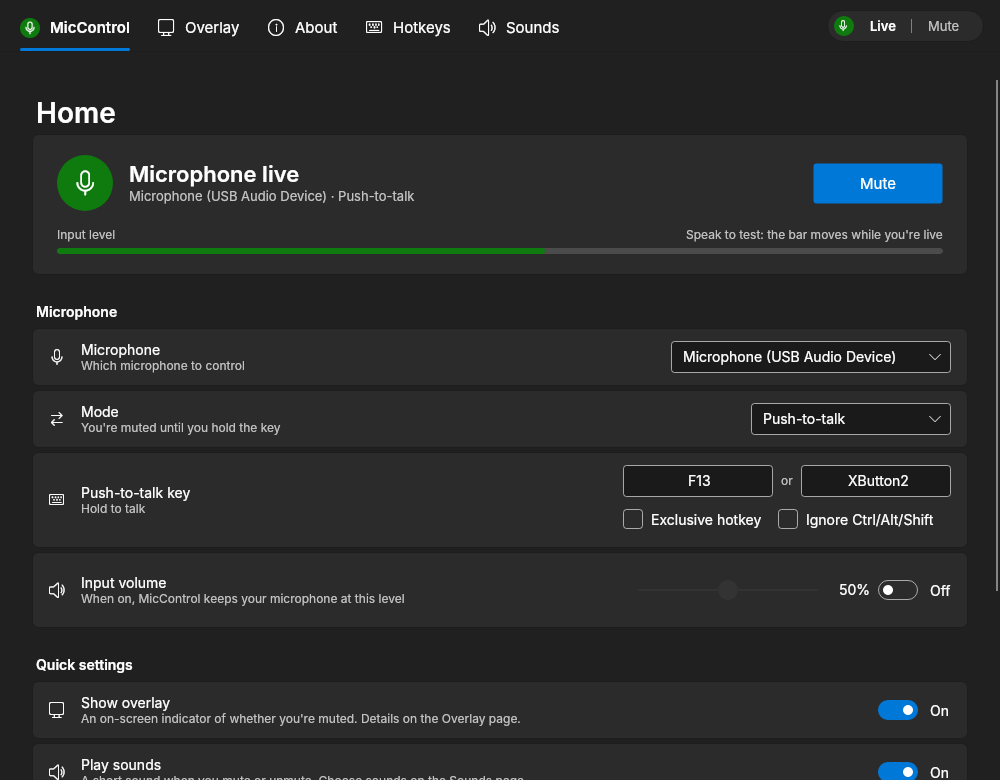
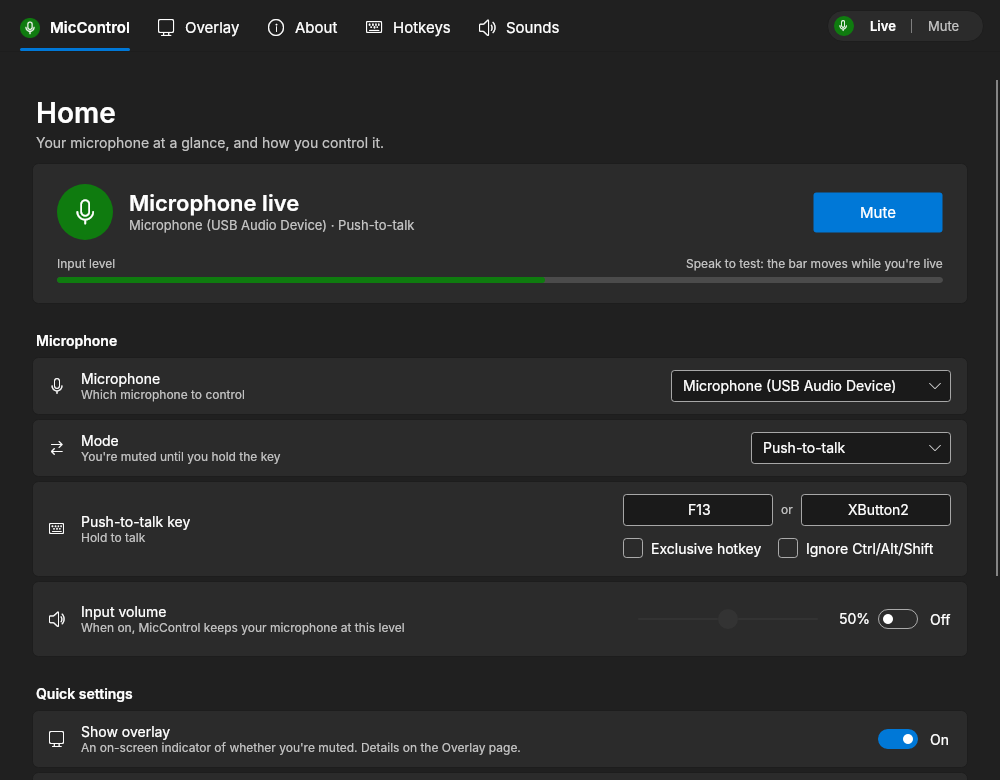
Consistent page tops; Theme becomes a segmented control
- Every page has a title and a one-line subtitle (Home and About were missing theirs)
- Home's status card and About's app card share one style: padding, 56 px icon, title and detail sizes, button size; About's icon follows the live/muted state
- Theme is a System | Light | Dark segmented control instead of a dropdown

diff --git a/Sources/MicControl.UI/ViewModels/MainViewModel.cs b/Sources/MicControl.UI/ViewModels/MainViewModel.cs
@@ -407,7 +407,37 @@ public sealed partial class MainViewModel : ObservableObject, IDisposable
             if (SetAndSave(Settings.Window.Theme, value, v => Settings.Window.Theme = v))
             {
                 App.ApplyTheme(value);
+                OnPropertyChanged(nameof(IsSystemTheme));
+                OnPropertyChanged(nameof(IsLightTheme));
+                OnPropertyChanged(nameof(IsDarkTheme));
             }
+        }
+    }
+
+    // Home's segmented Theme control: one of these is on; choosing one sets Theme (unchecking is ignored).
+    public bool IsSystemTheme
+    {
+        get => Theme == AppTheme.System;
+        set => SelectTheme(value, AppTheme.System);
+    }
+
+    public bool IsLightTheme
+    {
+        get => Theme == AppTheme.Light;
+        set => SelectTheme(value, AppTheme.Light);
+    }
+
+    public bool IsDarkTheme
+    {
+        get => Theme == AppTheme.Dark;
+        set => SelectTheme(value, AppTheme.Dark);
+    }
+
+    private void SelectTheme(bool selected, AppTheme theme)
+    {
+        if (selected)
+        {
+            Theme = theme;
         }
     }
 

diff --git a/Sources/MicControl.Tests/Ui/MainViewModelTests.cs b/Sources/MicControl.Tests/Ui/MainViewModelTests.cs
@@ -416,4 +416,22 @@ public sealed class MainViewModelTests
         vm.OverlayEnabled = false;
         Assert.Equal(0, vm.OverlayVisibilityStep);
     }
+
+    [AvaloniaFact]
+    public void ThemeSegments_PickOneTheme_AndIgnoreUnchecking()
+    {
+        using var harness = new TestHarness();
+        var vm = harness.ViewModel;
+        Assert.True(vm.IsSystemTheme);
+
+        vm.IsDarkTheme = true;
+        Assert.Equal(AppTheme.Dark, vm.Settings.Window.Theme);
+        Assert.Equal((false, false, true), (vm.IsSystemTheme, vm.IsLightTheme, vm.IsDarkTheme));
+
+        vm.IsSystemTheme = false; // a radio button being unchecked as another one is picked changes nothing
+        Assert.Equal(AppTheme.Dark, vm.Settings.Window.Theme);
+
+        vm.IsSystemTheme = true;
+        Assert.Equal(AppTheme.System, vm.Settings.Window.Theme);
+    }
 }

diff --git a/CLAUDE.md b/CLAUDE.md
@@ -65,6 +65,8 @@ System-wide microphone mute/unmute with hotkeys, an always-on-top overlay, sound
 - About → Advanced (always shown, between Updates and System: settings first, then the read-only details) holds the optional features, both off by default: **Custom hotkeys** (`customHotkeysEnabled`) adds the **Hotkeys** page and **Custom sounds** (`notifications.customSoundsEnabled`) adds the **Sounds** page. A switch is named "Custom X" and its page plainly "X"; keep that pattern. Their tabs come after About, in the order of the switches (Home · Overlay · About · Hotkeys · Sounds), and only show while the switch is on (`NavItems` is filtered from `AllNavItems`; a hidden page navigates Home). Off pauses custom hotkeys and plays the built-in cues at full volume on the default device (`NotificationSettings.Played*`); the user's rows and choices are kept for when it's turned back on. Basic settings (Play sounds, overlay, etc.) stay on Home.
 - Custom hotkeys are a dynamic list of key → action rows; the action list hides whatever the main key already does in the current mode.
 - Overlay is a translucent Discord inspired badge, positioned by corner presets or "Edit position" (drag); click-through otherwise. "Show overlay" is a four-stop slider, Never → When muted → When live → Always (`OverlayVisibilityStep`), not a dropdown.
+- Pages share one top: title, a one-line subtitle (`pageSubtitle`, on every page), then on Home and About the same card (`Border.hero`: 56 px icon, `heroTitle`, `heroDetail`, `heroAction` button). About's icon follows the live/muted state like the rest of the app.
+- Theme is a segmented control (`Border.segmented` + `RadioButton.segment`: System | Light | Dark, bound to `IsSystemTheme`/`IsLightTheme`/`IsDarkTheme`), not a dropdown or slider: the three are peers with no order, unlike Show overlay's scale.
 - The once-per-session tray notice (`TrayHintWindow`) says only: right-click the tray icon for quick controls or to exit; click or double-click it to get back to the full window. No mention of hotkeys.
 - The level meter and speaking indicator open the mic (OS "in use" indicator), so the meter only runs while Home/Setup is visible and the speaking indicator is opt-in.
 - App icon: the Home page's status badge, a green (`#0F7B0F`, live) or red (`#C42B1C`, muted, with a slash) circle with a white microphone outline; tray sizes (32 px and below) use a solid capsule so they stay readable. Drawn from simple shapes by `tools/GenerateAppIcons.cs` (`dotnet run tools/GenerateAppIcons.cs` from the repo root; pass a folder to also write a preview sheet), never a font glyph, so it's ours to ship. It writes `MicControl.UI/Assets/microphoneEnabled|Disabled.ico` (16-256 px: window, tray, and the live one is the exe's icon) and `.png` (256 px: sidebar). Change it by editing the generator, never the images. The window and tray use the `.ico` (`MainViewModel.CurrentWindowIcon`) unless the user picked their own overlay icons.
